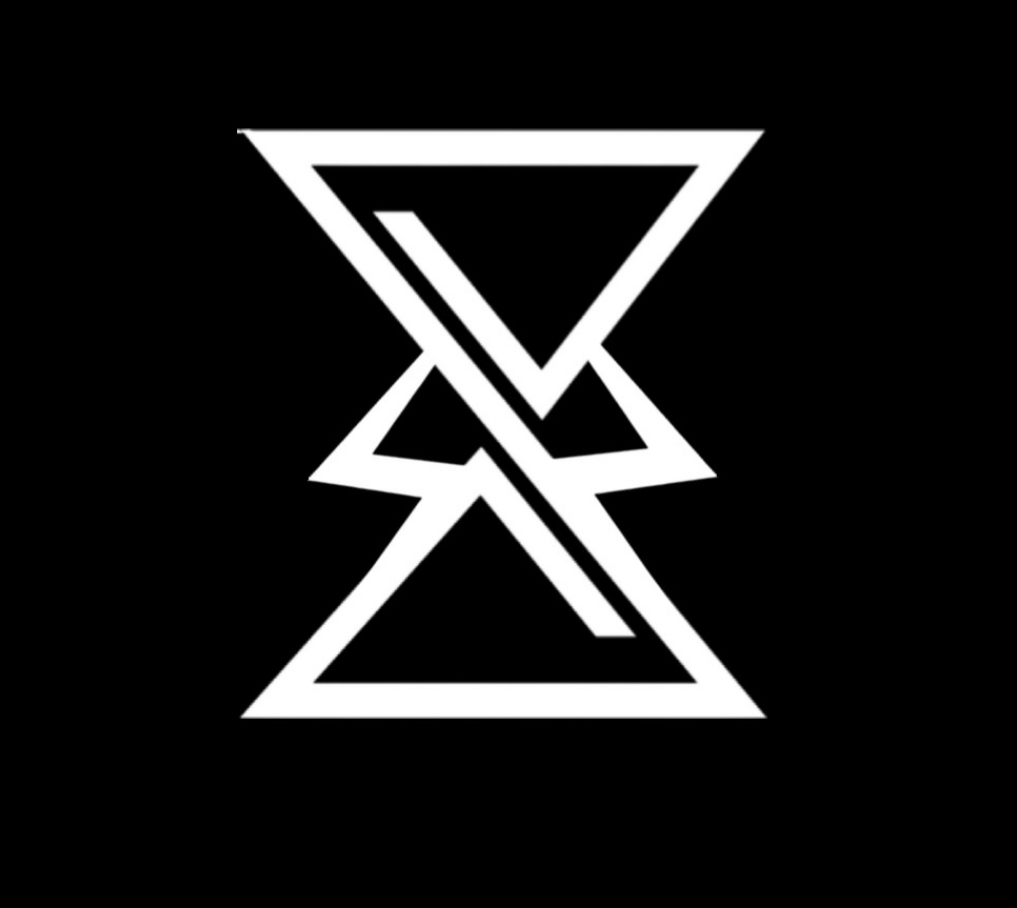
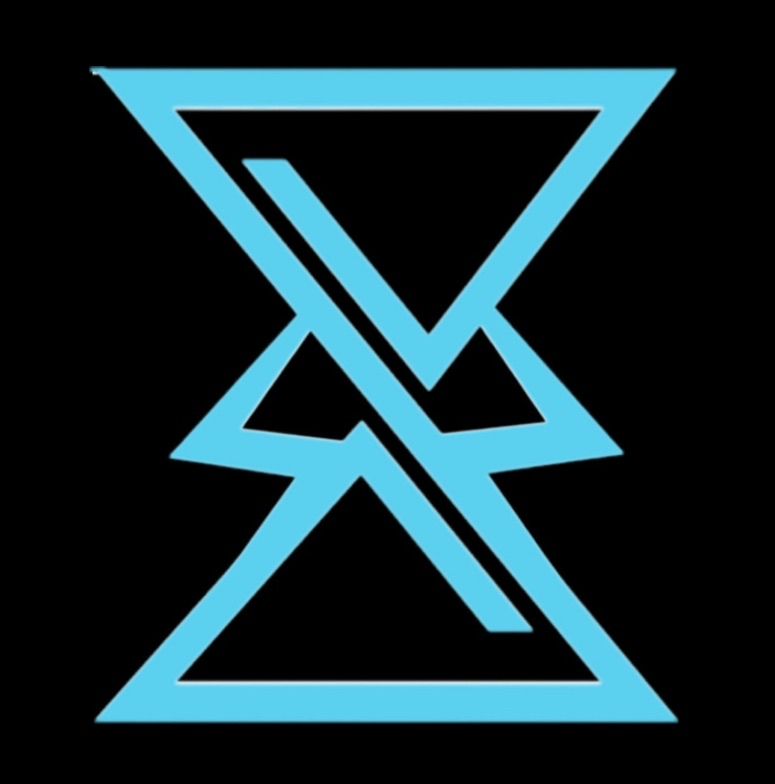
updated Jaiden's & Deva's PFP + added Deva's Gradient

diff --git a/dnd-site/src/constants/characters.ts b/dnd-site/src/constants/characters.ts
@@ -139,7 +139,7 @@ const PLAYER_INFO = [
     playerName: "Deva / Argo",
     playerIntro: "",
     playerRole: ["DM", "Player"],
-    playerGradient: "rgba(0,0,0), rgba(255,255,255)",
+    playerGradient: "rgba(128, 42, 151), rgba(255,0,0)",
     playerCharacters: DEVA_CHARACTERS,
   },
   {
